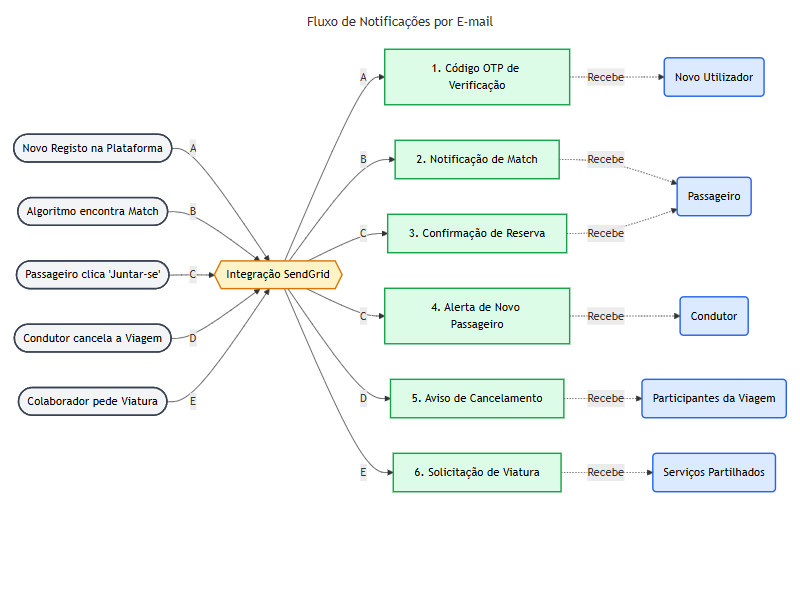
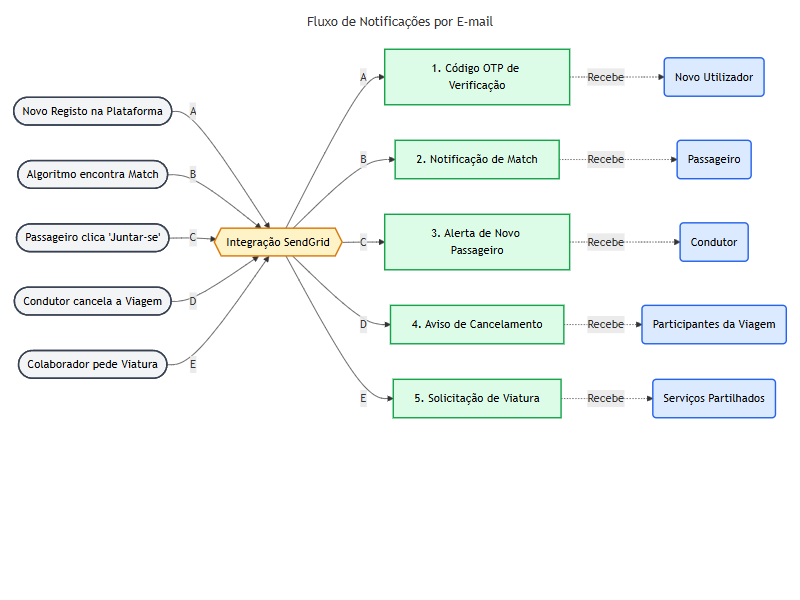
Fluxos E-mail atualizados

diff --git a/Documentation/Diagramas/fluxo-email1.md b/Documentation/Diagramas/fluxo-email1.md
@@ -8,9 +8,8 @@ O sistema de notificações da plataforma atua como o principal canal de comunic
 O sistema atualmente tem 5 tipos de e-mails configurados, que disparam automaticamente consoante as ações na plataforma.
 1. **Verificação de Conta**: Quando um utilizador se regista na plataforma pela primeira vez. Apenas destinado aos novos utilizadores. O e-mail contém um Código OTP de Verificação único para validar a propriedade do endereço de e-mail.
 2. **Notificação de Match**: Quando o algoritmo de Matchmaking deteta que uma nova oferta de viagem (PROVIDER) coincide com o pedido de um passageiro (NEEDRIDE), ou vice-versa. Apenas destinado ao passageiro (NEEDRIDE). O e-mail informa a origem, destino, data, o número de opções compatíveis e inclui um link direto para a viagem do condutor, facilitando a reserva rápida.
-3. **Confirmação de Reserva**: Quando o passageiro clica no botão de 'Juntar-se' a uma viagem. Apenas o passageiro recebe. O e-mail confirma a reserva e fornece os detalhes da viagem, o nome do condutor e o número de lugares que ainda sobram no carro.
-4. **Alerta de Novo Passageiro**: Quando um passageiro se junta a uma viagem. Apenas o condutor (PROVIDER) recebe o e-mail. O e-mail informa o condutor de que um colega (indicando o nome) acabou de reservar um lugar no seu carro, sugerindo a utilização do Chat da plataforma para combinar detalhes.
-5. **Alerta de Cancelamento**: Quando um condutor elimina uma viagem que já tinha lugares reservados. O e-mail é enviado a todos os passageiros que estavam inscritos nessa viagem. O e-mail contém um aviso urgente de que a viagem para a qual estavam inscritos entre a origem X e o destino Y, foi cancelada pelo condutor, permitindo que os passageiros procurem uma alternativa.
-6. **Solicitação de Viatura**: Quando um colaboorador utiliza o botão 'Solicitar Viatura' na plataforma. Destinado exclusivamente ao departamento de Serviços Partilhados (SP). O e-mail é formatado com os dados do pedido (colaborador, data, origem, destino e justificação) e configurado para que, ao clicarem em 'Enviar', a resposta siga diretamente para o e-mail do departamento dos Serviços Partilhados, facilitando a Gestão Logística fora da plataforma.
+3. **Alerta de Novo Passageiro**: Quando um passageiro se junta a uma viagem. Apenas o condutor (PROVIDER) recebe o e-mail. O e-mail informa o condutor de que um colega (indicando o nome) acabou de reservar um lugar no seu carro, sugerindo a utilização do Chat da plataforma para combinar detalhes.
+4. **Alerta de Cancelamento**: Quando um condutor elimina uma viagem que já tinha lugares reservados. O e-mail é enviado a todos os passageiros que estavam inscritos nessa viagem. O e-mail contém um aviso urgente de que a viagem para a qual estavam inscritos entre a origem X e o destino Y, foi cancelada pelo condutor, permitindo que os passageiros procurem uma alternativa.
+5. **Solicitação de Viatura**: Quando um colaboorador utiliza o botão 'Solicitar Viatura' na plataforma. Destinado exclusivamente ao departamento de Serviços Partilhados (SP). O e-mail é formatado com os dados do pedido (colaborador, data, origem, destino e justificação) e configurado para que, ao clicarem em 'Enviar', a resposta siga diretamente para o e-mail do departamento dos Serviços Partilhados, facilitando a Gestão Logística fora da plataforma.
 
 [Fluxo das Notificações por E-mail](fluxo-email.md)

diff --git a/Documentation/Diagramas/fluxo-email.md b/Documentation/Diagramas/fluxo-email.md
@@ -22,10 +22,9 @@ graph LR
     %% 4. TIPOS DE E-MAIL
     M1[1. Código OTP de Verificação]
     M2[2. Notificação de Match]
-    M3[3. Confirmação de Reserva]
-    M4[4. Alerta de Novo Passageiro]
-    M5[5. Aviso de Cancelamento]
-    M6[6. Solicitação de Viatura]
+    M4[3. Alerta de Novo Passageiro]
+    M5[4. Aviso de Cancelamento]
+    M6[5. Solicitação de Viatura]
 
     %% 5. DESTINATÁRIOS
     U1(Novo Utilizador)
@@ -43,7 +42,6 @@ graph LR
     
     %% O fluxo C divide-se em dois e-mails
     G3 -->|C| API
-    API -->|C| M3 -.->|Recebe| U2
     API -->|C| M4 -.->|Recebe| U3
     
     G4 -->|D| API
@@ -56,6 +54,6 @@ graph LR
     %% 7. APLICAR CORES
     class G1,G2,G3,G4,G5 gatilho;
     class API api;
-    class M1,M2,M3,M4,M5,M6 email;
+    class M1,M2,M4,M5,M6 email;
     class U1,U2,U3,U4,U5 user;
 ```
